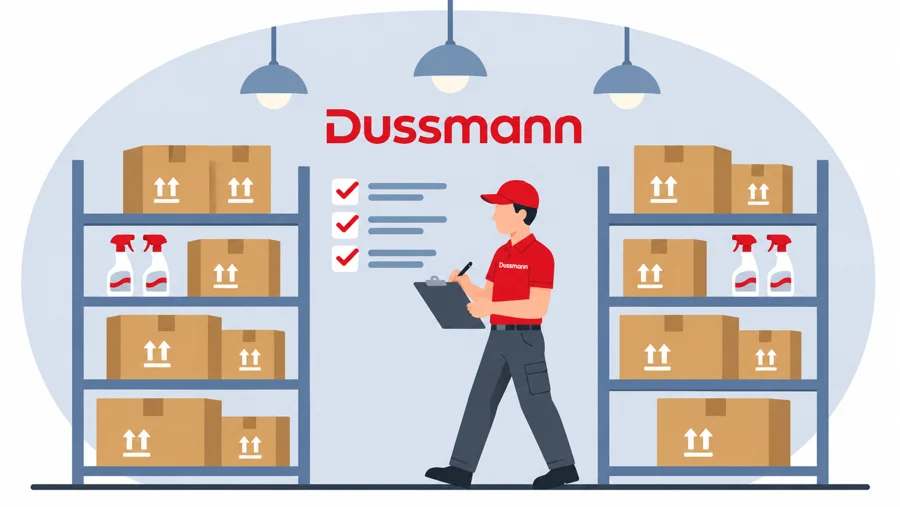
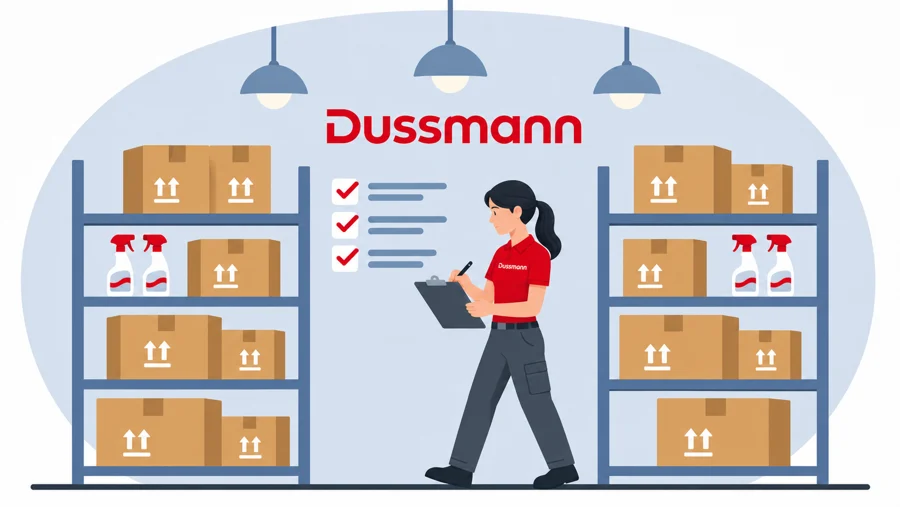
Aggiorna l’illustrazione con un’addetta al magazzino 1.8.5

Changed region(s): [[0.5289, 0.355, 0.6222, 0.6509], [0.56, 0.7396, 0.5911, 0.7692]]

diff --git a/index.html b/index.html
@@ -1,12 +1,12 @@
 <!DOCTYPE html>
-<html lang="it" data-app-version="1.8.4">
+<html lang="it" data-app-version="1.8.5">
 <head>
   <meta charset="UTF-8" />
   <meta name="viewport" content="width=device-width, initial-scale=1.0" />
 
   <title>Magazzini Dussmann</title>
 
-  <link rel="stylesheet" href="style.css?v=1.8.4" />
+  <link rel="stylesheet" href="style.css?v=1.8.5" />
   <link rel="manifest" href="manifest.json" />
 
   <meta name="theme-color" content="#1f4e78" />
@@ -70,7 +70,7 @@
         </button>
       </div>
 
-      <img class="mag-home-art" src="magazzino-home.webp" width="900" height="507" alt="" />
+      <img class="mag-home-art" src="magazzino-home.webp?v=1.8.5" width="900" height="507" alt="" />
 
       <button id="installBtn" class="btn btn-light hidden" onclick="installApp()">
         Installa app sul telefono
@@ -322,7 +322,7 @@
 
   </div>
 
-  <footer class="app-version">Magazzini Dussmann · Versione 1.8.4</footer>
+  <footer class="app-version">Magazzini Dussmann · Versione 1.8.5</footer>
 
   <dialog id="appUpdate" class="app-update" aria-labelledby="appUpdateTitle">
     <h2 id="appUpdateTitle">Aggiornamento disponibile</h2>
@@ -331,6 +331,6 @@
     <button id="appUpdateLater" type="button" class="mag-text-button">Più tardi</button>
   </dialog>
 
-  <script src="app.js?v=1.8.4"></script>
+  <script src="app.js?v=1.8.5"></script>
 </body>
 </html>

diff --git a/service-worker.js b/service-worker.js
@@ -1,4 +1,4 @@
-const VERSION = "1.8.4";
+const VERSION = "1.8.5";
 const CACHE_PREFIX = "magazzini-dussmann-";
 const CACHE_NAME = CACHE_PREFIX + VERSION;
 
@@ -6,7 +6,7 @@ const FILES_TO_CACHE = [
   "./index.html",
   "./style.css?v=" + VERSION,
   "./app.js?v=" + VERSION,
-  "./magazzino-home.webp",
+  "./magazzino-home.webp?v=" + VERSION,
   "./manifest.json"
 ];
 
